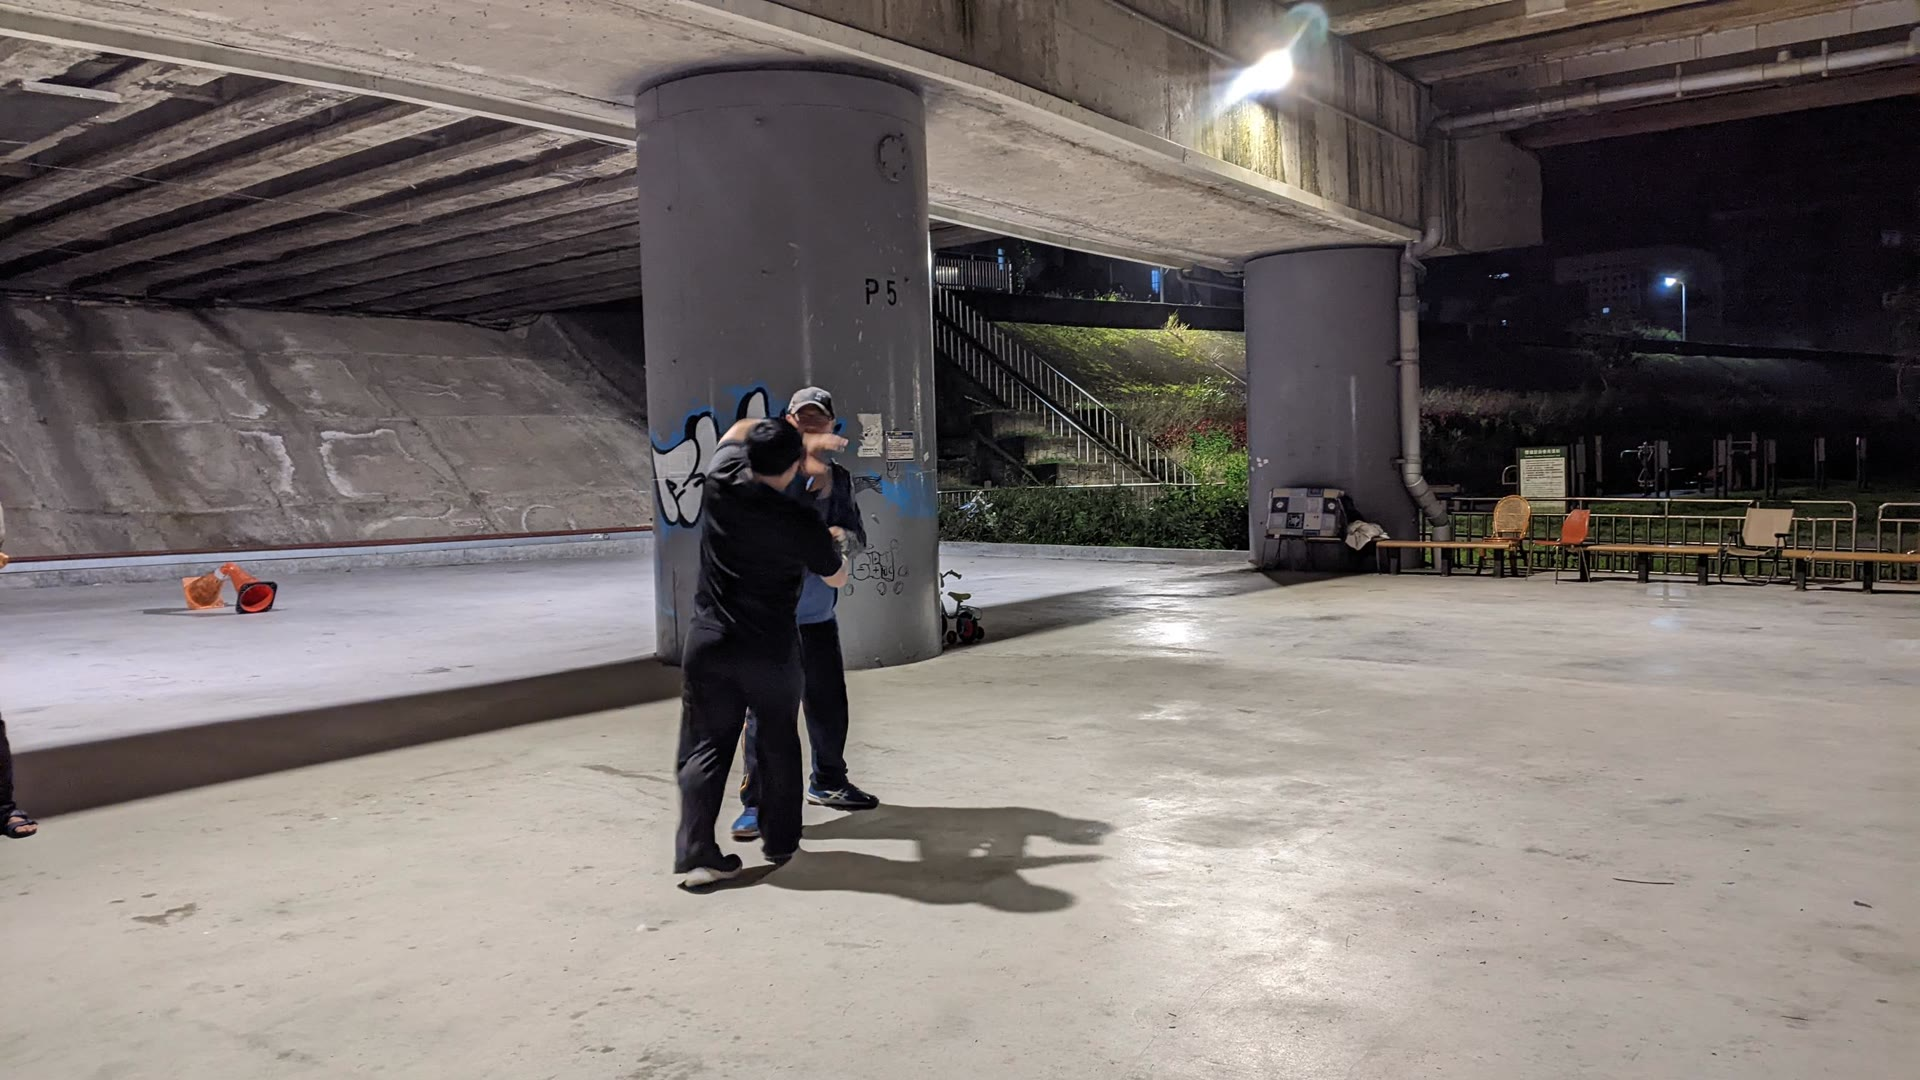
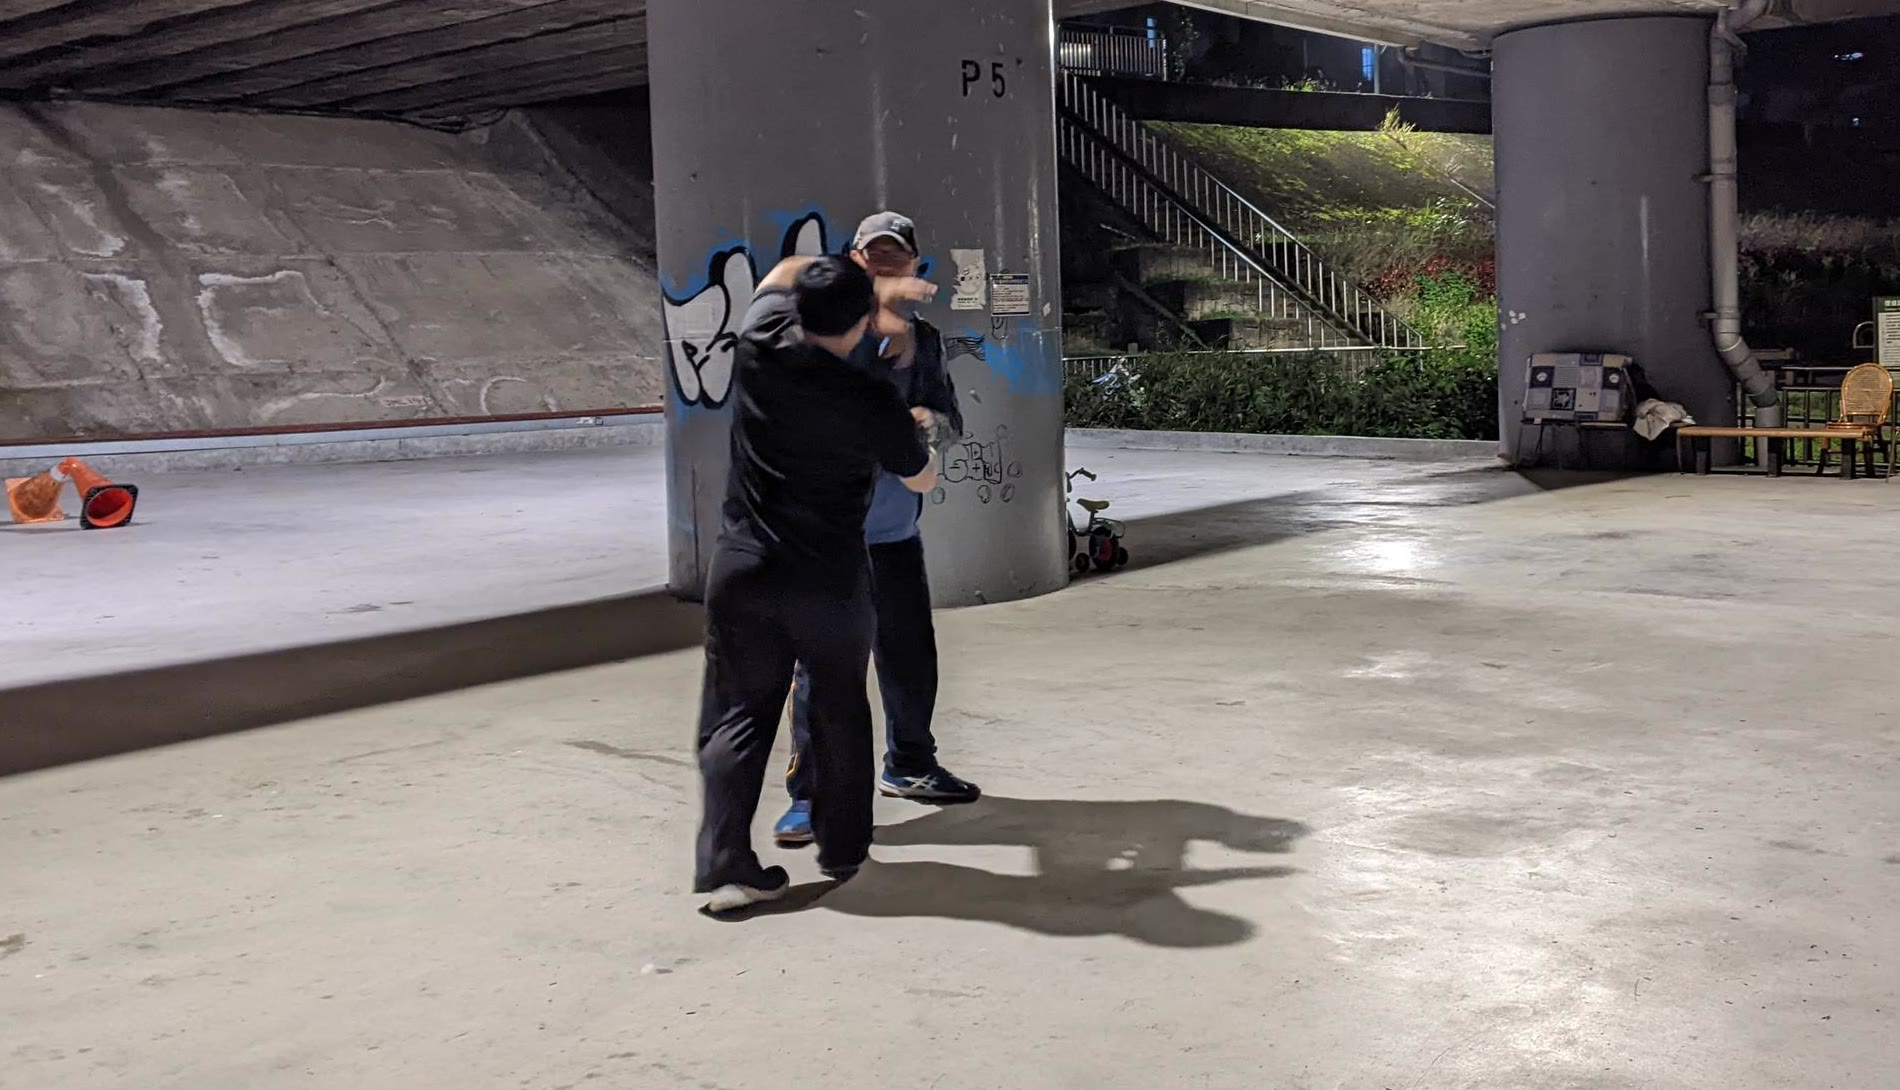
換上新照片：首頁 hero、師父介紹照、四篇文章配圖；修正各頁裁切位置
- 首頁 hero 換成兩組黐手的逆光照。原圖是直式，桌機用橫幅裁切版、
  手機用直式原圖（hero 新增 imgTall 參數在 767px 以下切換）
- 「關於師父」改用師父本人的照片，取代影片截圖
- 三套拳的層次／結構應力／螺旋與擰轉／不接手的限制 換上新照片
- 關於師父頁的 hero 從 45% 下移到 20%，不再切到頭
- 文章 hero 新增 pos 欄位可逐篇指定裁切位置，預設從 38% 下移到 22%
- 用同樣的裁切幾何把 18 篇 hero 一次算出來檢查，修掉五篇裁切不良的：
  點線面（原本用影片小裁圖，放大後糊又切到頭，改用橋下群體黐手照）、
  自然、教學、十五年了、自發動功

diff --git a/assets/css/style.css b/assets/css/style.css
@@ -119,6 +119,12 @@ p:last-child { margin-bottom: 0; }
 .hero { position: relative; display: flex; align-items: flex-end; min-height: 62vh; padding: 128px 0 clamp(48px, 8vw, 92px); color: var(--paper); overflow: hidden; }
 .hero--tall { min-height: 100svh; align-items: center; padding-top: 100px; }
 .hero__bg { position: absolute; inset: 0; background-size: cover; background-position: center 40%; transform: scale(1.03); }
+/* 直式照片在窄畫面用原圖，寬畫面用橫幅裁切版 */
+.hero__bg--tall { display: none; }
+@media (max-width: 767px) {
+  .hero__bg { display: none; }
+  .hero__bg--tall { display: block; }
+}
 .hero__veil {
   position: absolute; inset: 0;
   background: linear-gradient(180deg, rgba(16, 14, 12, 0.72) 0%, rgba(16, 14, 12, 0.5) 38%, rgba(16, 14, 12, 0.86) 100%);

diff --git a/CLAUDE.md b/CLAUDE.md
@@ -89,6 +89,22 @@ part: 2               # 選填，系列裡的第幾篇
 
 `assets/img/` 的圖是從 `照片/` 與 `影片/` 處理過的。文章的 `image:` 填檔名就好，會自動當成大圖背景（壓半透明黑、字疊上去）。
 
+**要注意裁切位置。** hero 又寬又矮，`cover` 會從上下裁掉不少，人的頭很容易被切掉。文章可以用 `pos:` 逐篇指定（預設 `center 22%`）：
+
+```markdown
+image: class-line.jpg
+pos: center 15%
+```
+
+數字越小＝顯示越靠照片上方。要一次檢查全部文章的裁切結果，可以用同樣的幾何算出縮圖再拼成一張看：
+
+```bash
+# hero 在 1920 寬時高約 498px；把圖縮到 1920 寬再依 pos 裁出那一段
+ffmpeg -i assets/img/X.jpg -vf "scale=1920:H1,crop=1920:498:0:Y" out.jpg
+```
+
+首頁 hero 是直式照片，另外準備了橫幅裁切版給桌機（`imgTall` 參數在窄畫面切換回直式原圖）。
+
 從影片截圖：
 
 ```bash

diff --git a/content/articles/2020-01-15-san-tao-quan.md b/content/articles/2020-01-15-san-tao-quan.md
@@ -2,7 +2,7 @@
 slug: san-tao-quan
 title: 三套拳的層次
 date: 2020-01-15
-image: sifu-form3.jpg
+image: class-line.jpg
 excerpt: 詠春三套拳是一個很棒的訓練層次  像是大圓裏  包裹著中圓  中圓裏又裹著小圓  但是是同一個圓心
 quote: 每一個層次都會讓另外兩個更深更擴大
 ---

diff --git a/content/articles/2020-11-06-jie-gou-ying-li.md b/content/articles/2020-11-06-jie-gou-ying-li.md
@@ -2,7 +2,8 @@
 slug: jie-gou-ying-li
 title: 結構應力
 date: 2020-11-06
-image: spar-close.jpg
+image: sifu-teaching.jpg
+pos: center 15%
 excerpt: 這種結構應力就是我們常說的功力  我會說是結構應力  不只是結構  還要能應力
 quote: 力由地起之前  對手的力早已入地
 ---

diff --git a/content/articles/2026-07-16-zi-ran.md b/content/articles/2026-07-16-zi-ran.md
@@ -2,7 +2,8 @@
 slug: zi-ran
 title: 自然，是精細的調整
 date: 2026-07-16
-image: dummy.jpg
+image: dummy-train.jpg
+pos: center 25%
 excerpt: 內壓出現  結構有些就會歸位  所以  其實裡面學問很大
 quote: 所謂的自然  是自然而然完成許多精細的調整
 ---

diff --git a/content/articles/2022-10-15-luo-xuan.md b/content/articles/2022-10-15-luo-xuan.md
@@ -2,7 +2,7 @@
 slug: luo-xuan
 title: 螺旋與擰轉
 date: 2022-10-15
-image: chisau-tall.jpg
+image: class-line2.jpg
 excerpt: 擰轉就會找到兩端  找到兩端就可以更擰轉  身體深層的筋膜就會更開發出來鬆放
 quote: 找到緊的  把它鬆開來
 ---

diff --git a/content/articles/2026-08-18-shi-wu-nian.md b/content/articles/2026-08-18-shi-wu-nian.md
@@ -3,6 +3,7 @@ slug: shi-wu-nian
 title: 十五年了
 date: 2026-08-18
 image: dojo-banner.jpg
+pos: center 6%
 excerpt: 教拳其實是教育工作  跟做事業不太一樣  它跟人的身心靈  連結的更緊密
 quote: 我想得到身體  與靈魂  的自由
 ---

diff --git a/content/articles/2026-08-15-jiao-xue.md b/content/articles/2026-08-15-jiao-xue.md
@@ -3,6 +3,7 @@ slug: jiao-xue
 title: 教學
 date: 2026-08-15
 image: chisau-photo.jpg
+pos: center 30%
 excerpt: 即使在山頂上  山下的路也該踏踏實實地走一遍
 quote: 從山下仰望山頂時  那時的熱烈追求是多麼珍貴!!
 ---

diff --git a/content/articles/2025-09-29-zi-fa-dong.md b/content/articles/2025-09-29-zi-fa-dong.md
@@ -3,6 +3,7 @@ slug: zi-fa-dong
 title: 自發動功
 date: 2025-09-29
 image: bridge-tall.jpg
+pos: center 42%
 excerpt: 我們坐著  看起來像在靜中  但其實(動)卻是不停發生的
 quote: 在動中自靜  自靜于動中
 ---

diff --git a/content/articles/2021-06-15-dian-xian-mian.md b/content/articles/2021-06-15-dian-xian-mian.md
@@ -2,7 +2,8 @@
 slug: dian-xian-mian
 title: 點、線、面，2D 與 3D
 date: 2021-06-15
-image: chisau.jpg
+image: hero-bridge.jpg
+pos: center 45%
 series: 接與不接
 part: 3
 excerpt: 接到拳是軌跡上的必然  而不是目的

diff --git a/content/articles/2021-06-14-bu-jie-shou.md b/content/articles/2021-06-14-bu-jie-shou.md
@@ -2,7 +2,8 @@
 slug: bu-jie-shou
 title: 不接手的限制
 date: 2021-06-14
-image: spar-wide.jpg
+image: chisau-night.jpg
+pos: center 12%
 series: 接與不接
 part: 2
 excerpt: 不接手固然是很棒的技術  但是有其限制
